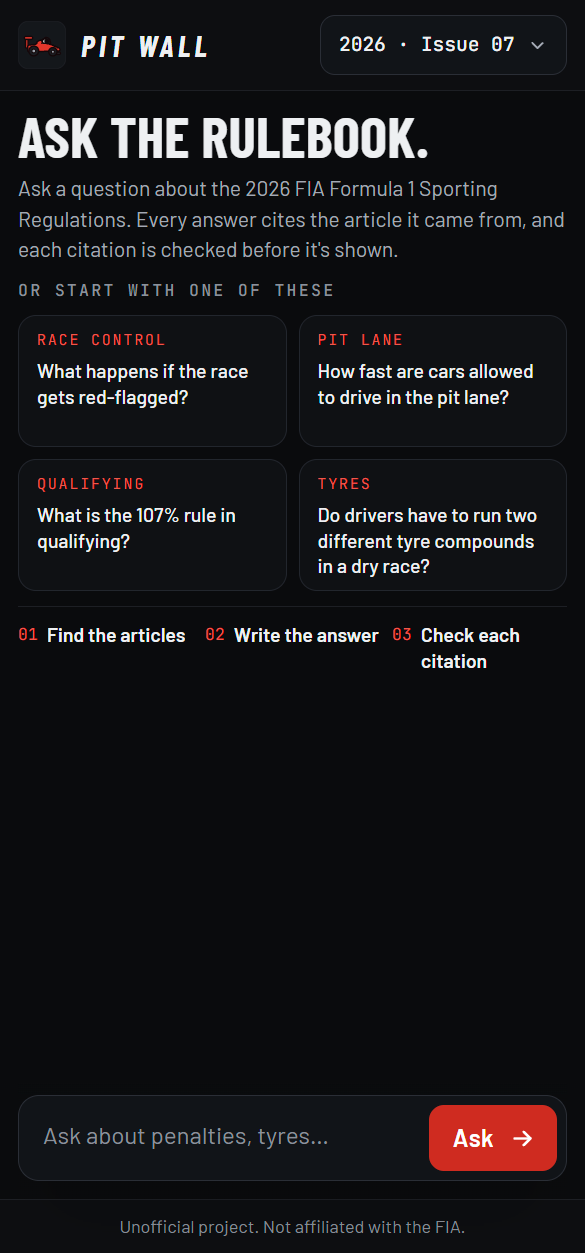
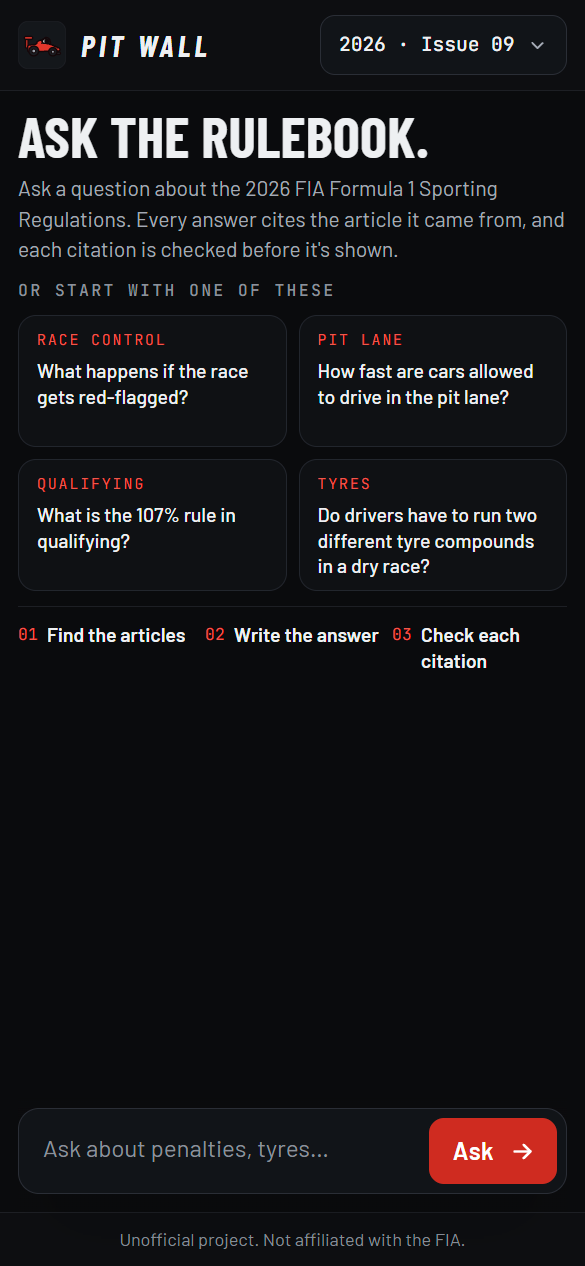
Retake README screenshots on Issue 09 of the regulations
The old screenshots still showed Issue 07 in the season selector. The new ones are PNGs: an answer about power unit grid penalties, its cited article (B8.2.8) in the side panel, and the start screen at phone width.

diff --git a/README.md b/README.md
@@ -7,7 +7,7 @@ checked in code against the articles that were actually retrieved before it's sh
 **Live demo: [pit-wall-rag.vercel.app](https://pit-wall-rag.vercel.app)**. The API runs on a free
 server that sleeps when nobody uses it, so the first question can take up to a minute.
 
-![An answer about red flags, with green verified citation chips and the five retrieved sources](docs/screenshots/answer.jpg)
+![An answer about grid penalties for extra power unit parts, with a green verified citation chip and the five retrieved sources](docs/screenshots/answer.png)
 
 ## What it does
 
@@ -22,7 +22,7 @@ server that sleeps when nobody uses it, so the first question can take up to a m
 
 <table>
   <tr>
-    <td><img src="docs/screenshots/article-panel.jpg" alt="Clicking a citation chip opens the full text of Article B5.14.2 with the clause highlighted" width="600"></td>
+    <td><img src="docs/screenshots/article-panel.png" alt="Clicking a citation chip opens the full text of Article B8.2.8 with the clause highlighted" width="600"></td>
     <td><img src="docs/screenshots/mobile.png" alt="The start screen on a phone, with example questions" width="200"></td>
   </tr>
   <tr>
